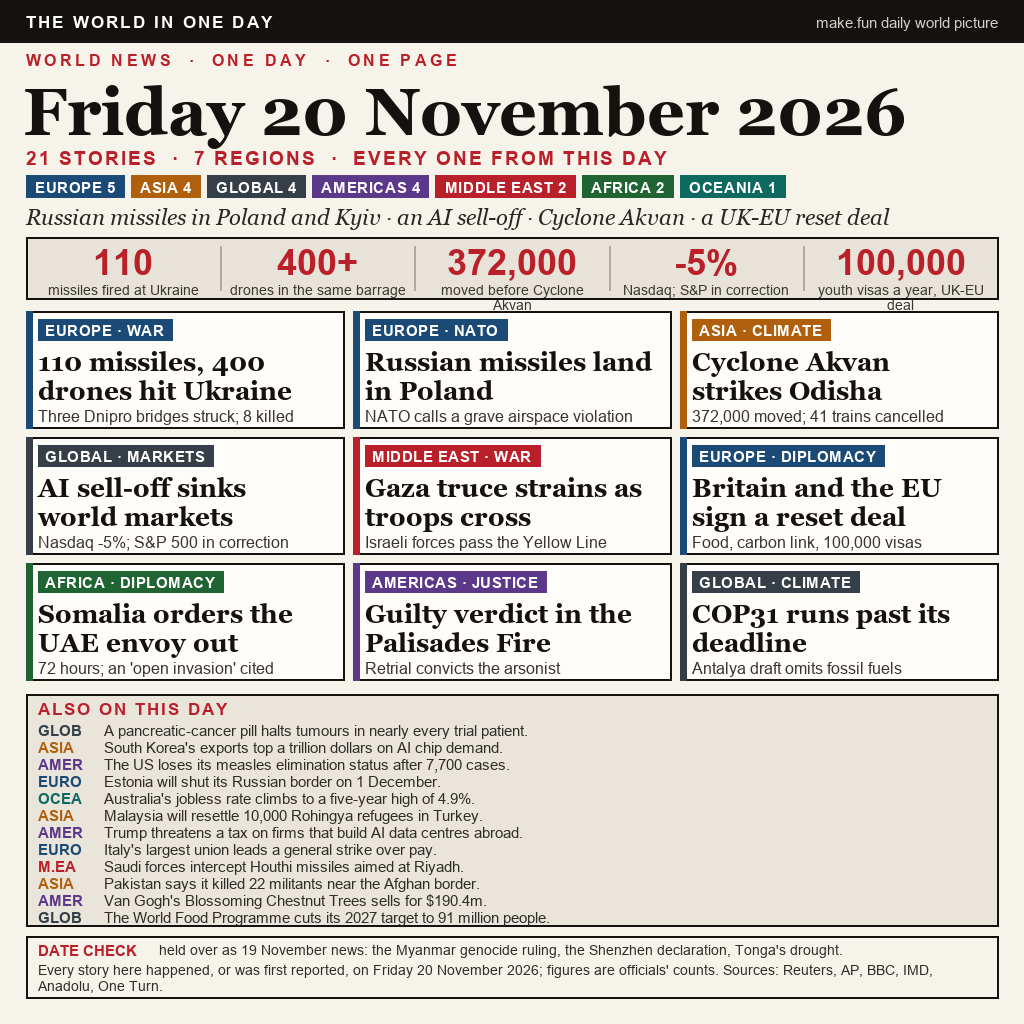
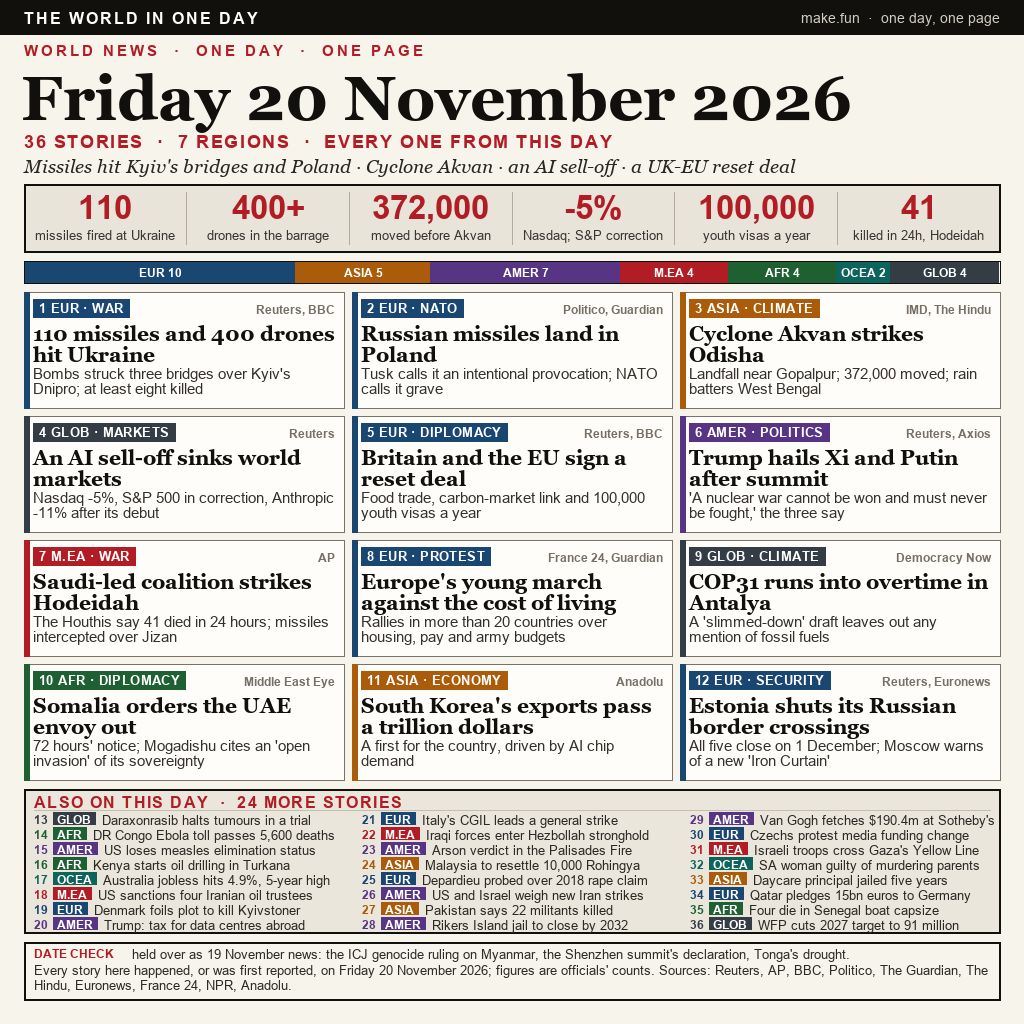
Friday 20 November 2026: 36 stories, 7 regions — the upgraded front page

diff --git a/SOURCES.md b/SOURCES.md
@@ -4,27 +4,42 @@ What the front page says, story by story, and where each story was reported.
 
 | Region | What the page says | Reported by |
 | --- | --- | --- |
-| EUROPE | Russia fired about 110 missiles and more than 400 drones overnight; bombs struck three bridges over Kyiv's Dnipro; at least eight people were killed | Reuters, BBC, Democracy Now |
-| EUROPE | Two Russian missiles and a suspected drone came down in eastern Poland; NATO called it a grave violation of its airspace | Reuters, One Turn |
-| EUROPE | Britain and the EU signed deals on food trade, carbon-market linkage and youth mobility of 100,000 people a year | Reuters |
-| EUROPE | Estonia said it would close its border with Russia on 1 December; Moscow warned of a new "Iron Curtain" | Reuters |
-| EUROPE | Italy's largest union, CGIL, led a general strike over pay and public spending | Reuters |
-| ASIA | Cyclone Akvan made landfall near Gopalpur in Odisha; about 372,000 people were evacuated and 41 trains were cancelled | India Meteorological Department, The Hindu, Indian Express |
+| EUROPE | Russia fired about 110 missiles and more than 400 drones overnight; bombs struck three bridges over Kyiv's Dnipro; at least eight people were killed | Reuters, BBC |
+| EUROPE | A Russian missile and a drone came down in south-east Poland; the prime minister called it an intentional provocation and NATO called the violation grave | Politico Europe, The Guardian |
+| ASIA | Cyclone Akvan made landfall near Gopalpur in Odisha; about 372,000 people were moved and rain battered West Bengal | India Meteorological Department, The Hindu |
+| GLOBAL | AI and chip shares sold off; the Nasdaq lost 5%, the S&P 500 closed in correction and Anthropic fell about 11% after its debut | Reuters |
+| EUROPE | Britain and the EU signed deals on food trade, carbon-market linkage and youth mobility of 100,000 people a year | Reuters, BBC |
+| AMERICAS | Trump, Xi Jinping and Vladimir Putin met in Shenzhen and said in a joint statement that a nuclear war cannot be won and must never be fought | Reuters, Axios |
+| MIDDLE EAST | The Saudi-led coalition struck Hodeidah; the Houthis said 41 people were killed in 24 hours and missiles were intercepted over Jizan | AP |
+| EUROPE | Students and young workers demonstrated in more than 20 European countries over housing, pay and military spending | France 24, The Guardian |
+| GLOBAL | COP31 in Antalya ran past its Friday deadline; a slimmed-down draft made no mention of fossil fuels | Democracy Now |
+| AFRICA | Somalia ordered the UAE ambassador to leave within 72 hours, citing an "open invasion" of its sovereignty | Middle East Eye |
 | ASIA | South Korea's exports topped one trillion dollars for the first time, on AI chip demand | Anadolu |
-| ASIA | Malaysia said it would resettle 10,000 Rohingya refugees in Turkey | Reuters |
-| ASIA | Pakistan said it killed 22 militants in raids in Khyber Pakhtunkhwa near the Afghan border | One Turn |
-| GLOBAL | AI and chip shares sold off; the S&P 500 and the Dow closed in correction, the Nasdaq lost more than 5%, and Anthropic fell about 11% after its debut | Reuters, One Turn |
-| GLOBAL | COP31 in Antalya ran past its Friday deadline with a draft that omits fossil fuels | One Turn, Anadolu |
-| GLOBAL | A trial of the pill daraxonrasib reported that tumours stopped growing in nearly all of its participants | One Turn |
-| GLOBAL | The World Food Programme cut its 2027 appeal target to 91 million people | Reuters |
-| MIDDLE EAST | Israeli forces crossed the Yellow Line in central Gaza, the first such incursion since the truce; Trump said he is not rushing decisions on Iran | One Turn, AP |
-| MIDDLE EAST | The Saudi-led coalition said it intercepted Houthi missiles aimed at Riyadh and struck Hodeidah | One Turn |
-| AFRICA | Somalia ordered the UAE ambassador to leave within 72 hours and recalled its own envoy, citing an "open invasion" of its sovereignty | Middle East Eye, World Watch |
-| AMERICAS | A Los Angeles jury convicted Jonathan Rinderknecht of arson over the Palisades Fire at his retrial | One Turn |
+| EUROPE | Estonia approved closing all five road crossings with Russia from 1 December; Moscow warned of a new "Iron Curtain" | Reuters, Euronews |
+| GLOBAL | A trial reported that the pill daraxonrasib stopped tumours growing in nearly every participant | One Turn |
+| AFRICA | The Ebola outbreak in the Democratic Republic of the Congo passed 5,600 deaths, with more than 11,600 confirmed cases | WHO |
 | AMERICAS | The United States lost its measles elimination status after 7,700 cases and 13 deaths | One Turn |
-| AMERICAS | Trump said firms that build AI data centres abroad will face a substantial tax | One Turn |
+| AFRICA | Kenya began crude oil drilling in Turkana County, targeting 20,000 barrels a day | The Online Kenyan |
+| OCEANIA | Australia's unemployment rate rose to a five-year high of 4.9% | Anadolu |
+| MIDDLE EAST | The US Treasury sanctioned four Iranian oil trustees over sanctions evasion | Daily Summary Of |
+| EUROPE | Denmark said Russian intelligence plotted to kill the US-Ukrainian rapper Kyivstoner and arrested three men | Daily Summary Of |
+| AMERICAS | Trump threatened a tax on US firms that build data centres abroad | The Hill, ABC Australia |
+| EUROPE | Italy's largest union, CGIL, led a general strike over pay and public spending | Reuters |
+| MIDDLE EAST | Iraqi forces entered Jurf al-Sakhar, a Kataib Hezbollah stronghold, under a deal that sees the group withdraw within a month | Reuters |
+| AMERICAS | A Los Angeles jury convicted Jonathan Rinderknecht of arson over the Palisades Fire at his retrial | One Turn |
+| ASIA | Malaysia said it would resettle 10,000 Rohingya refugees in Turkey | Reuters |
+| EUROPE | French police opened an investigation into Gérard Depardieu and Michel Houellebecq over an alleged 2018 on-set rape and assault | France 24, The Guardian |
+| AMERICAS | The United States and Israel are considering a new short-term assault on Iran, sources said | CBS News |
+| ASIA | Pakistan said it killed 22 militants in raids in Khyber Pakhtunkhwa near the Afghan border | One Turn |
+| AMERICAS | New York's mayor unveiled a plan to close Rikers Island jail by the end of 2032 | NPR, Euronews |
 | AMERICAS | Van Gogh's "Blossoming Chestnut Trees" sold for $190.4m at Sotheby's, a record for the artist | Anadolu |
-| OCEANIA | Australia's unemployment rate rose to a five-year high of 4.9% in October | Anadolu |
+| EUROPE | Czechs demonstrated against the prime minister's plan to change how public broadcasters are funded | France 24 |
+| MIDDLE EAST | Israeli forces crossed the Yellow Line in central Gaza, the first such incursion since the truce | One Turn, AP |
+| OCEANIA | A South Australian jury found Raelene Polymiadis guilty of murdering her parents with insulin | ABC Australia |
+| ASIA | A former daycare principal in Yogyakarta was sentenced to five years for abusing children | BBC News |
+| EUROPE | Qatar's emir pledged 15 billion euros of investment in Germany during a Berlin visit | Al Jazeera |
+| AFRICA | Four bodies were recovered after a migrant boat capsized off Senegal's coast; about 50 people were aboard | Daily Summary Of |
+| GLOBAL | The World Food Programme cut its 2027 appeal target to 91 million people | Reuters |
 
 ## DATE CHECK
 

diff --git a/README.md b/README.md
@@ -5,7 +5,7 @@
 [![reward](https://make.fun/badge/news-image-20261120/ucupverz/world-in-one-day-20261120/reward.svg)](https://make.fun/bounty/news-image-20261120?utm_source=github&utm_medium=readme&utm_campaign=news-image-20261120)
 
 This repository holds one image and one small program. The image is `entry.png`, a dated
-broadsheet-style front page that sums up the world's news of Friday 20 November 2026: 21
+broadsheet-style front page that sums up the world's news of Friday 20 November 2026: 36
 stories across 7 regions, every one of them from that day. `main.ts` is a short Node
 program whose only job is to copy that image to the grader's output directory. The image
 is the entry.
